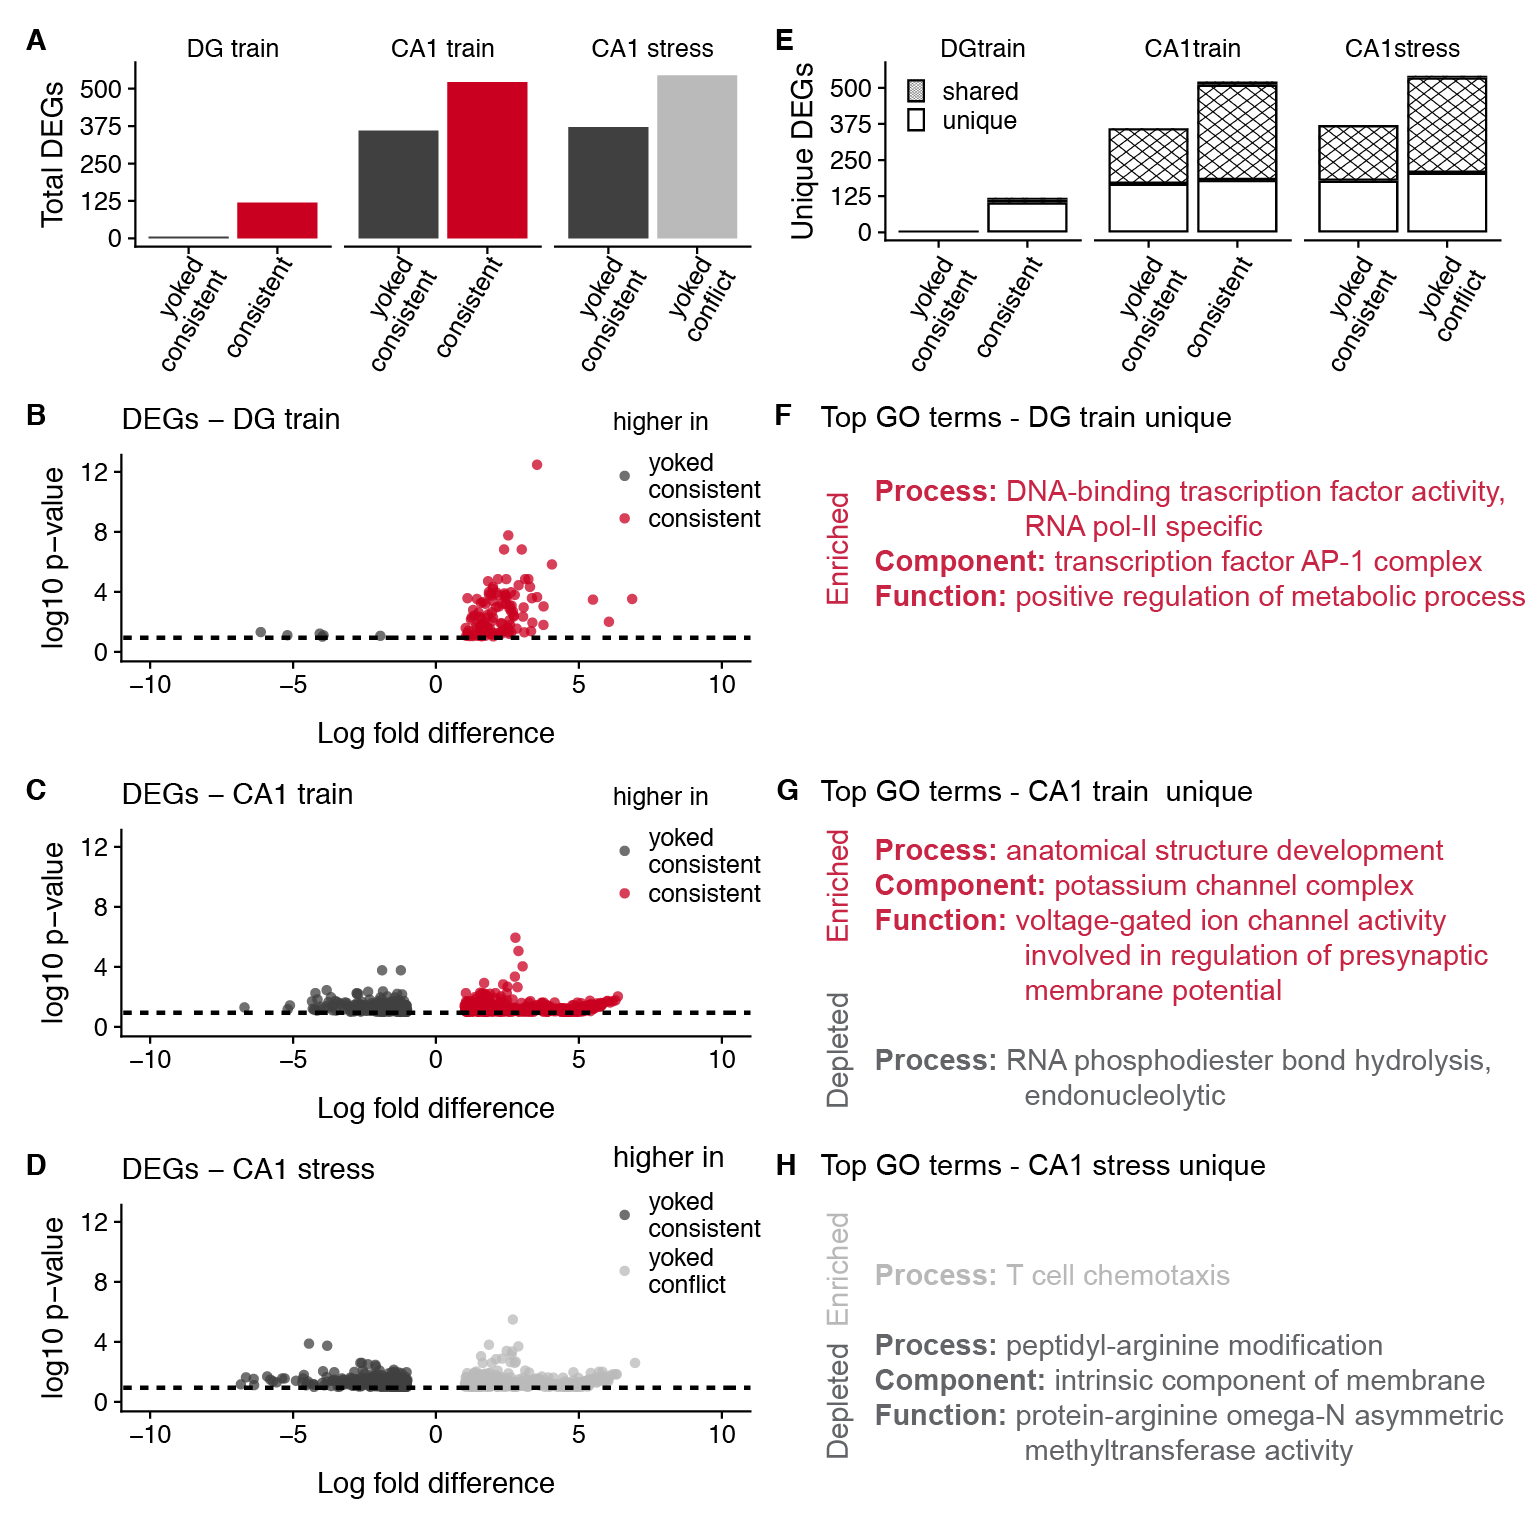
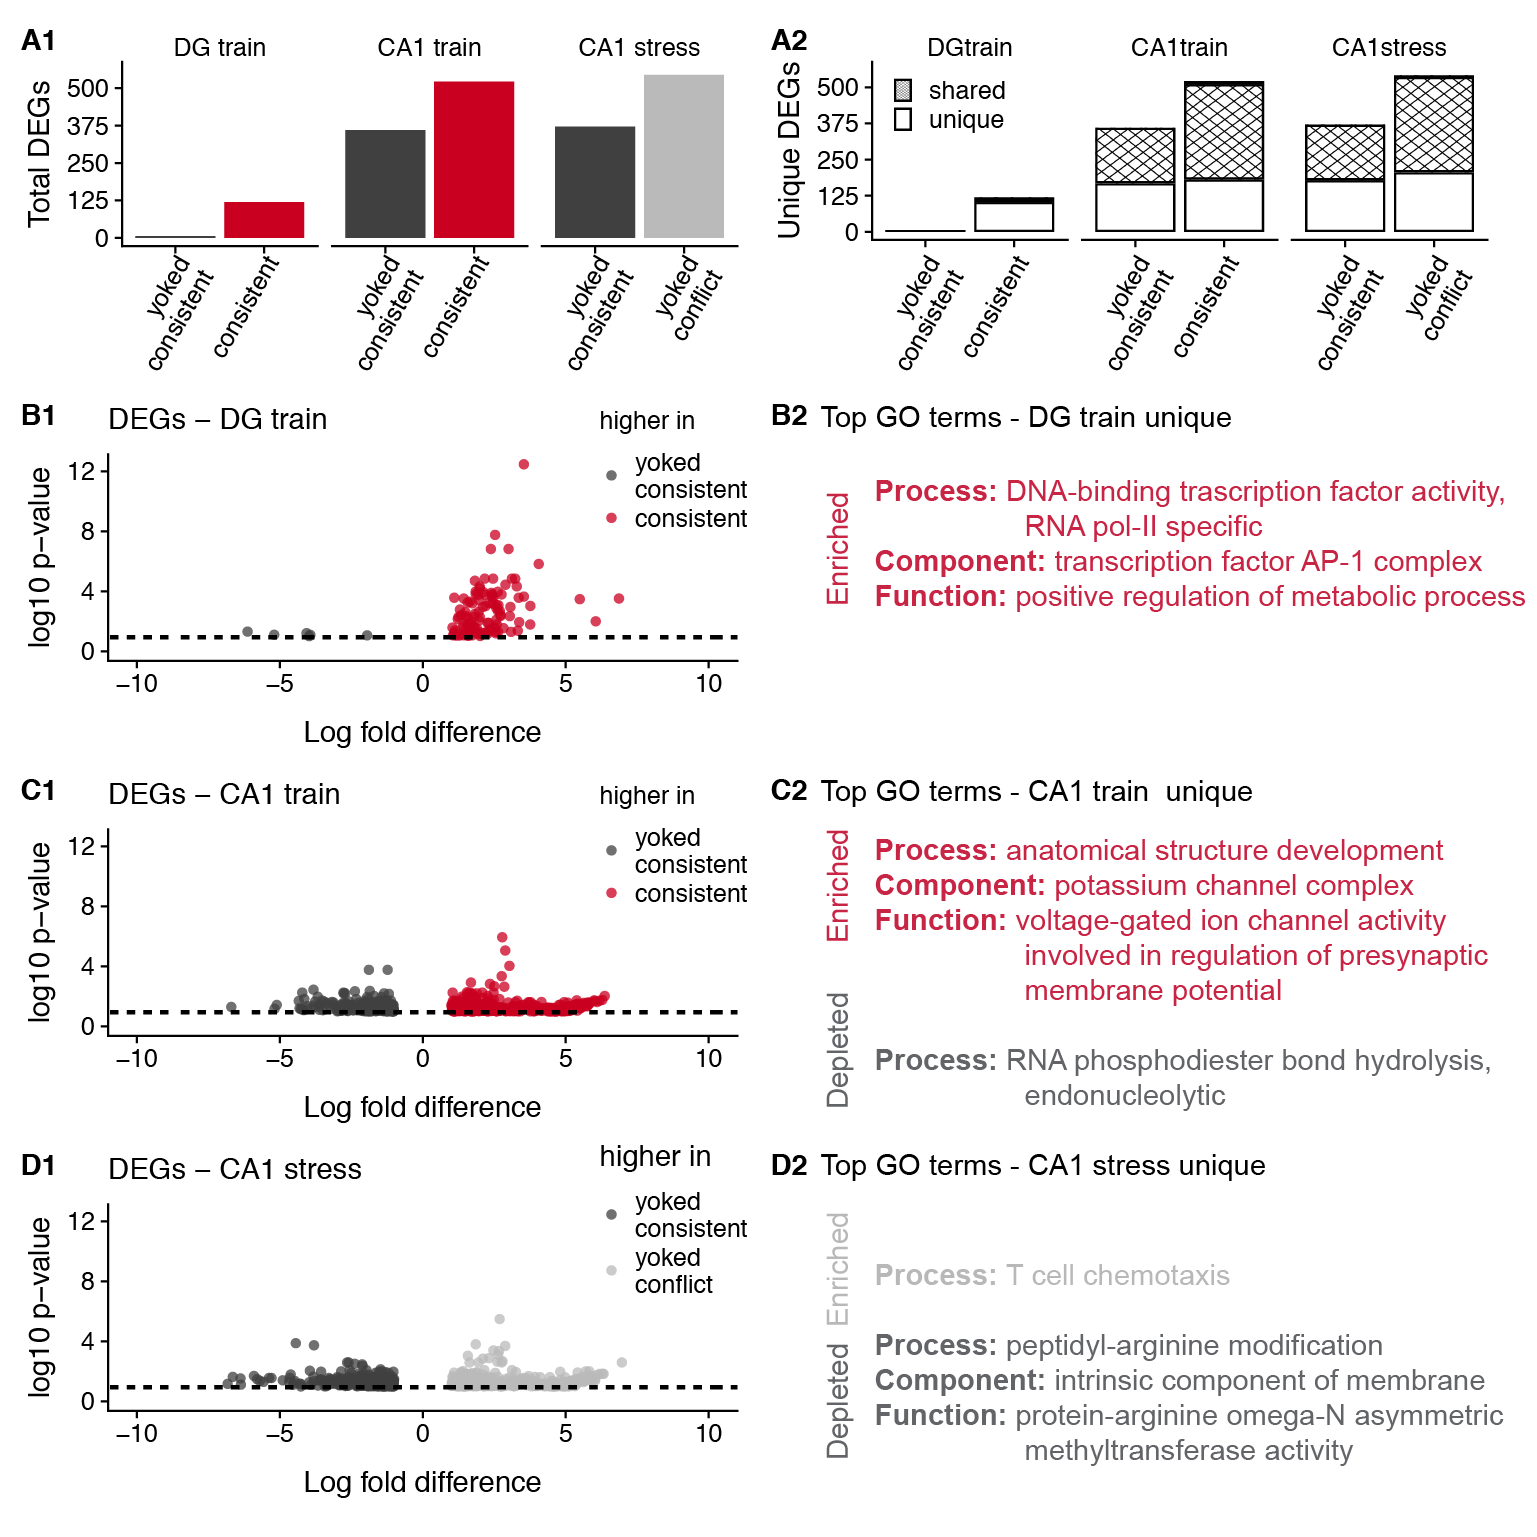
fix lable order

diff --git a/scripts/02c_rnaseqSubfield.md b/scripts/02c_rnaseqSubfield.md
@@ -941,7 +941,7 @@ filter out nonspecific gene expression responses
               DGconsyokcons + theme(legend.position = c(0.8,0.9)), NULL,
               CA1consyokcons + theme(legend.position = c(0.8,0.9)), NULL,
               CA1yoked + theme(legend.position = c(0.8,0.9)), NULL,
-              labels= c("A", "E", "B", "F", "C", "G", "D", "H"),
+              labels= c("A1", "A2", "B1", "B2", "C1", "C2", "D1", "D2"),
               label_size = 7,
               ncol = 2)
     spaceforgo
